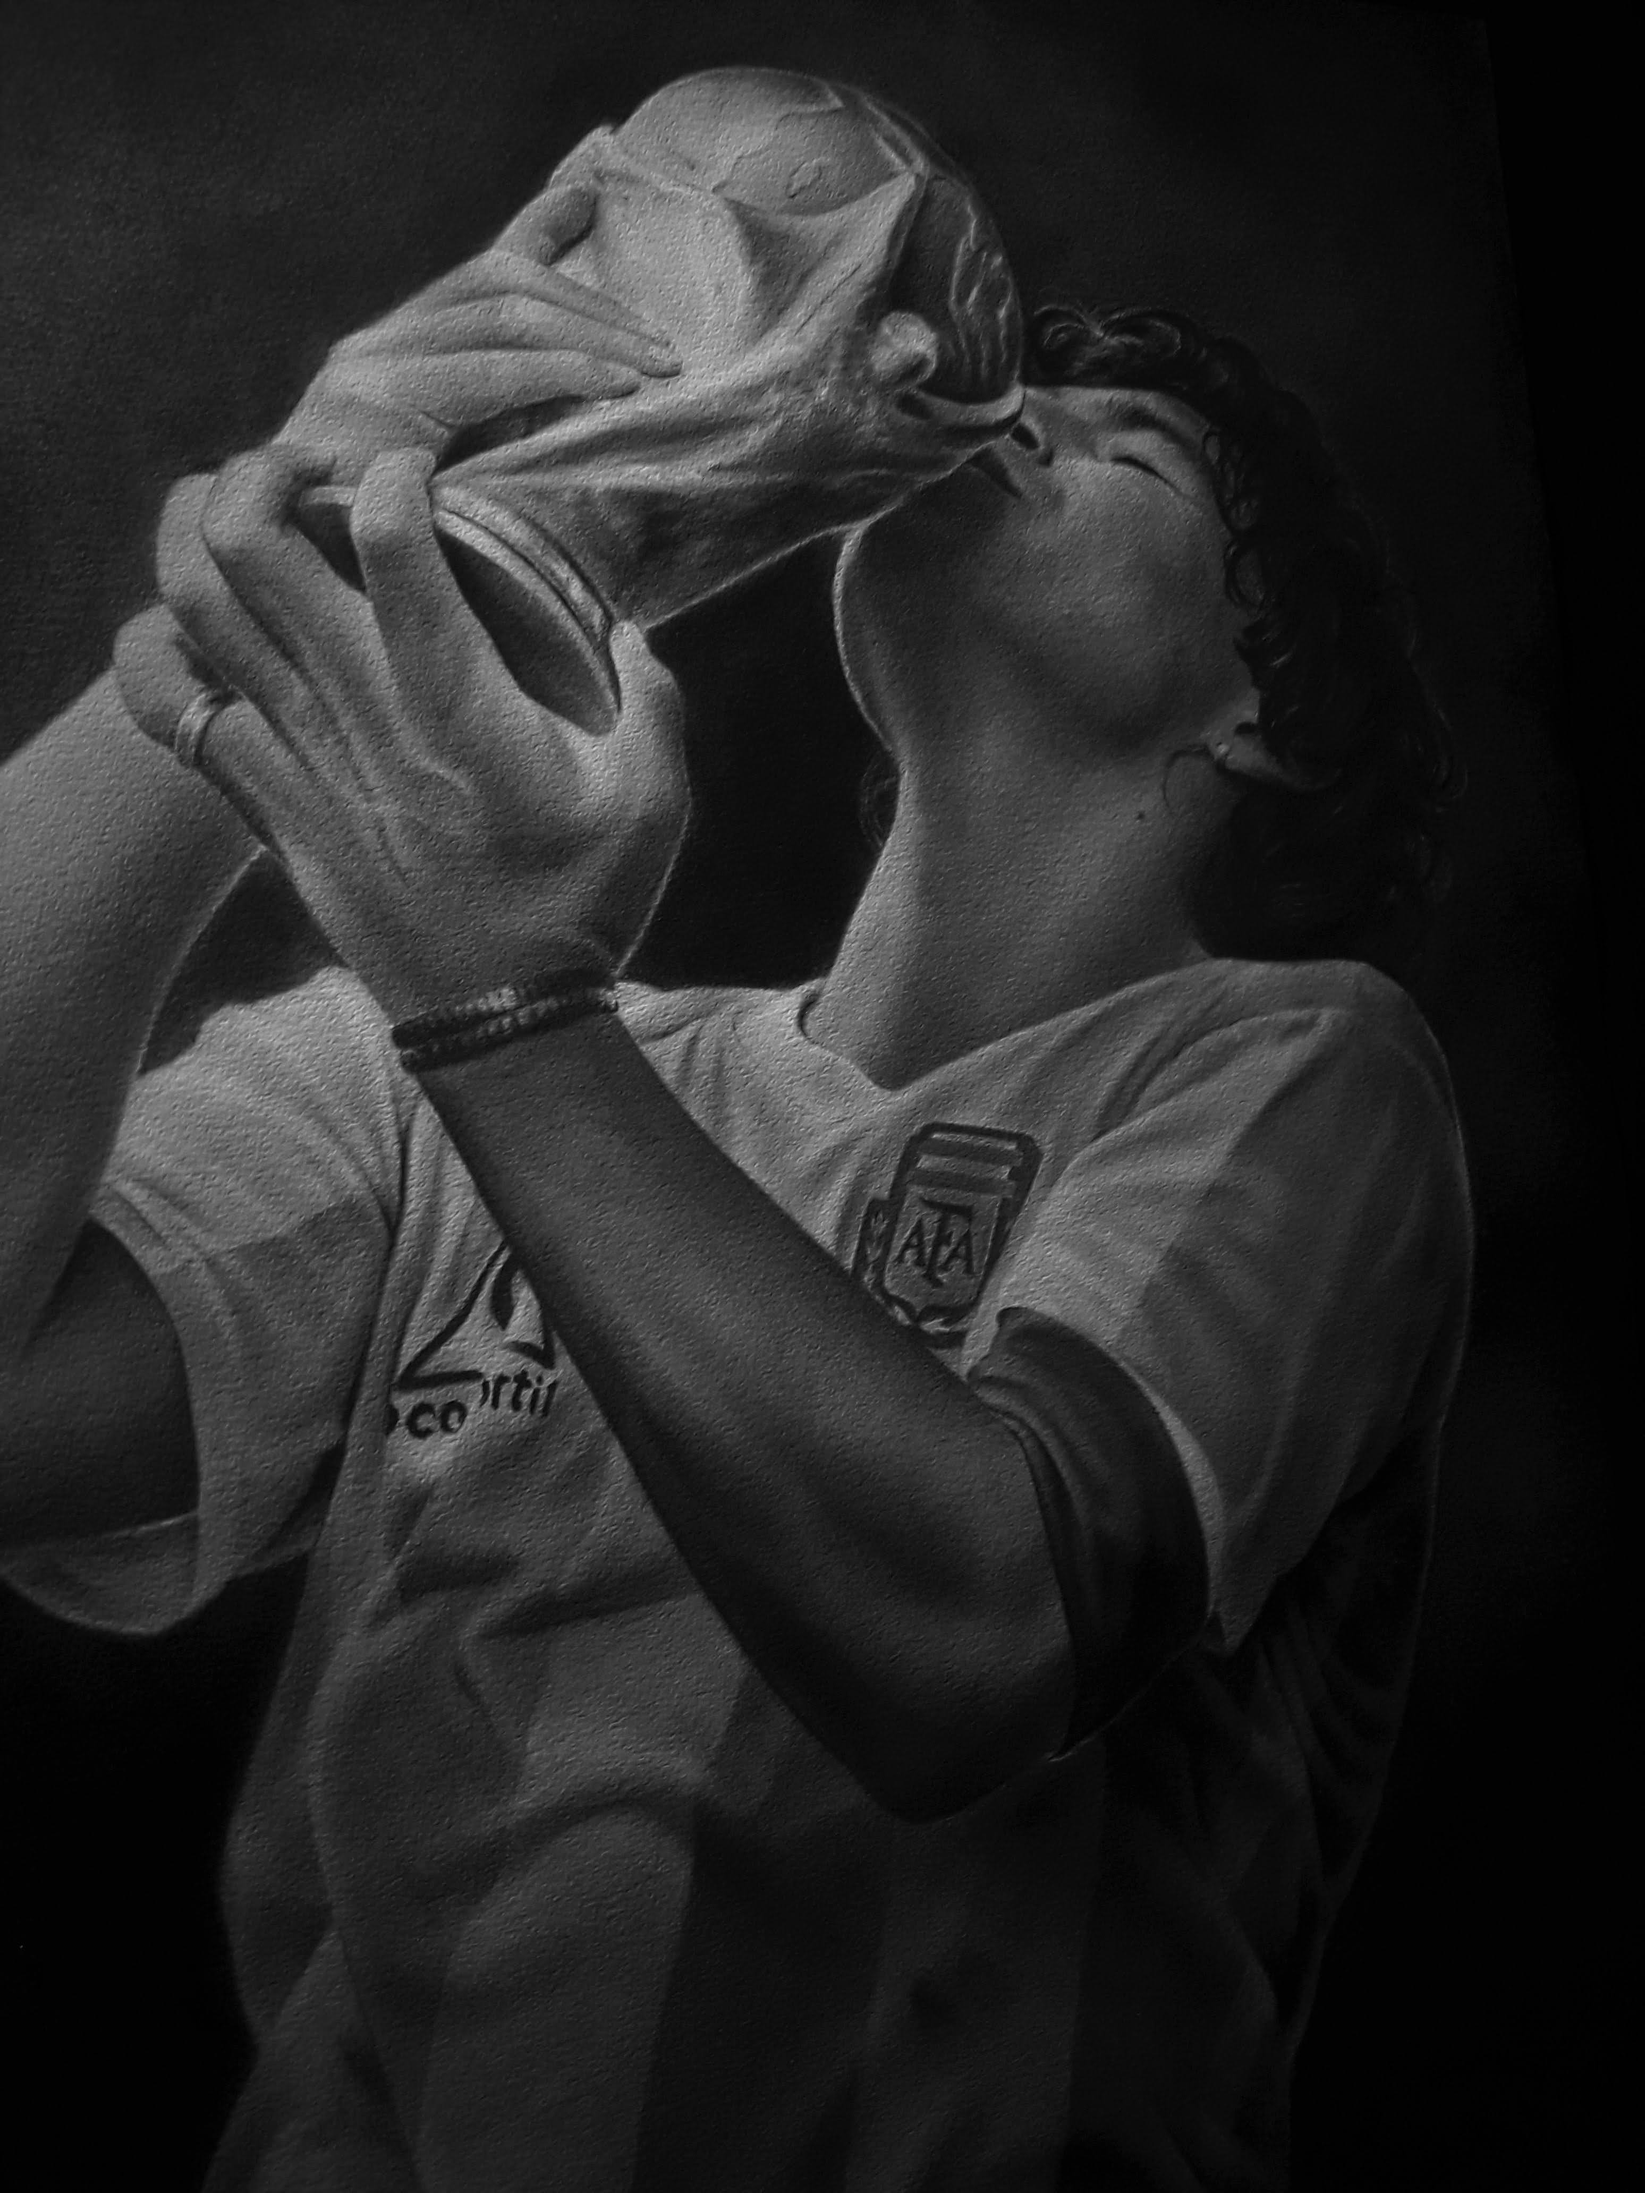
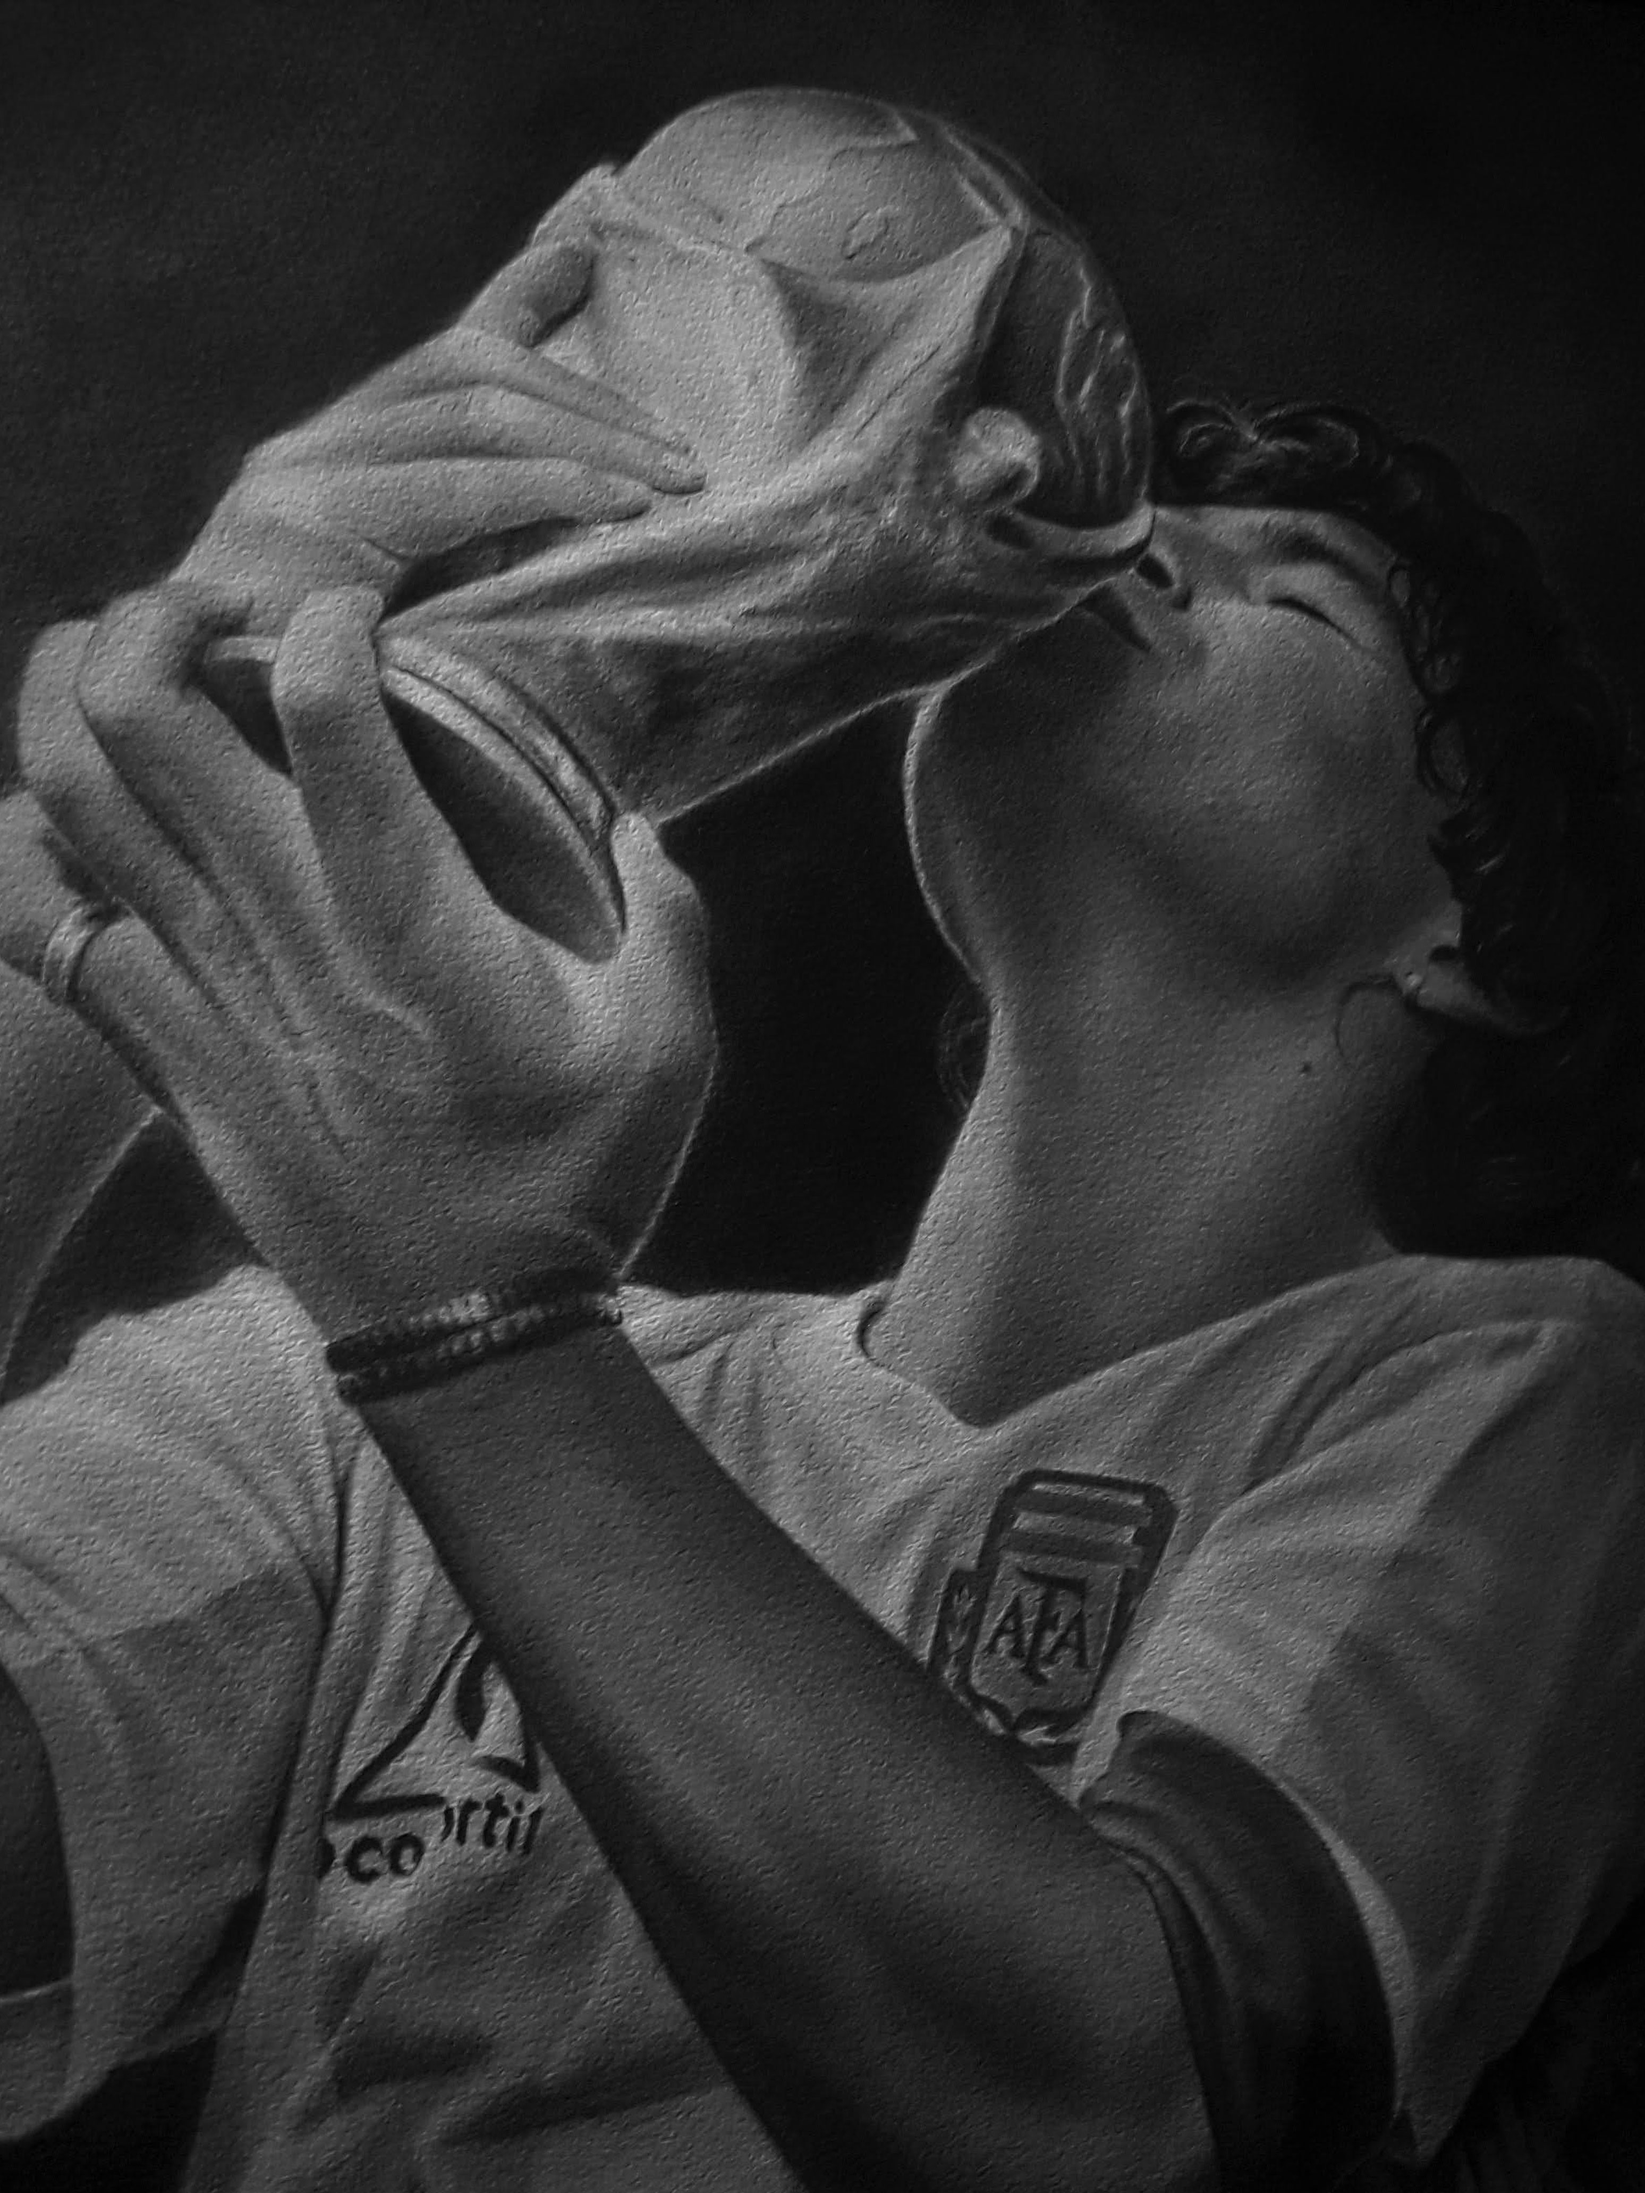
actualizacion8/8/26

diff --git a/works-data.js b/works-data.js
@@ -18,7 +18,7 @@ const WORKS_DATA = [
         title: "Retrato Hiperrealista de Rostro",
         category: "personas",
         categoryLabel: "Personas",
-        image: "assets/images/personas/(3).jpg",
+        image: "assets/images/personas/nro56.jpg",
         technique: "Grafito & Carboncillo sobre papel Canson 300g",
         format: "Formato A3",
         featured: true
@@ -28,7 +28,7 @@ const WORKS_DATA = [
         title: "Retrato de Lionel Messi",
         category: "personas",
         categoryLabel: "Personas",
-        image: "assets/images/personas/(21).jpg",
+        image: "assets/images/hero/nro89.1.jpg",
         technique: "Grafito graduado (2H a 8B)",
         format: "Formato A3",
         featured: true
@@ -38,7 +38,7 @@ const WORKS_DATA = [
         title: "Retrato Individual",
         category: "personas",
         categoryLabel: "Personas",
-        image: "assets/images/personas/102.jpg",
+        image: "assets/images/hero/nro89.jpg",
         technique: "Grafito sobre papel Canson 300g",
         format: "Formato A4",
         featured: true
@@ -48,7 +48,7 @@ const WORKS_DATA = [
         title: "Mirada en Sombra",
         category: "personas",
         categoryLabel: "Personas",
-        image: "assets/images/personas/103.jpg",
+        image: "assets/images/personas/(21).jpg",
         technique: "Estudio de luces y claroscuro en carboncillo",
         format: "Formato A4",
         featured: true
@@ -58,7 +58,7 @@ const WORKS_DATA = [
         title: "Retrato Familiar / Pareja",
         category: "personas",
         categoryLabel: "Personas",
-        image: "assets/images/personas/29.jpg",
+        image: "assets/images/hero/Nro3.1.jpg",
         technique: "Formato A3 en papel libre de ácido",
         format: "Formato A3",
         featured: true
@@ -68,7 +68,7 @@ const WORKS_DATA = [
         title: "Estudio de Expresión N° 107",
         category: "personas",
         categoryLabel: "Personas",
-        image: "assets/images/personas/107.jpg",
+        image: "assets/images/hero/Nro3.jpg",
         technique: "Grafito fino alzada",
         format: "Formato A4",
         featured: false
@@ -78,7 +78,7 @@ const WORKS_DATA = [
         title: "Contraste Profundo N° 70",
         category: "personas",
         categoryLabel: "Personas",
-        image: "assets/images/personas/70.jpg",
+        image: "assets/images/mascotas/64.jpg",
         technique: "Carboncillo y esfumado",
         format: "Formato A3",
         featured: false
@@ -88,7 +88,7 @@ const WORKS_DATA = [
         title: "Retrato en Grafito N° 71",
         category: "personas",
         categoryLabel: "Personas",
-        image: "assets/images/personas/71.jpg",
+        image: "assets/images/hero/diego.jpg",
         technique: "Grafito puro sobre papel de 300g",
         format: "Formato A4",
         featured: false
@@ -98,53 +98,24 @@ const WORKS_DATA = [
         title: "Expresión Realista N° 91",
         category: "personas",
         categoryLabel: "Personas",
-        image: "assets/images/personas/91.jpg",
+        image: "assets/images/personas/nro91.1.jpg",
         technique: "Papel de algodón de textura fina",
         format: "Formato A3",
         featured: false
     },
 
     // --- CATEGORÍA: MASCOTAS ---
-    {
-        id: "mascota-01",
-        title: "Retrato de Mascota en Pelaje",
-        category: "mascotas",
-        categoryLabel: "Mascotas",
-        image: "assets/images/mascotas/(19).png",
-        technique: "Textura de pelaje hiperrealista a grafito",
-        format: "Formato A4",
-        featured: true
-    },
-    {
-        id: "mascota-02",
-        title: "Recuerdo Especial Mascotas",
-        category: "mascotas",
-        categoryLabel: "Mascotas",
-        image: "assets/images/mascotas/58.jpg",
-        technique: "Grafito y toques de blanco titanio",
-        format: "Formato A4",
-        featured: true
-    },
-    {
-        id: "mascota-03",
-        title: "Estudio de Trazo Canino",
-        category: "mascotas",
-        categoryLabel: "Mascotas",
-        image: "assets/images/mascotas/56.jpg",
-        technique: "Carboncillo fino y esfumado",
-        format: "Formato A4",
-        featured: false
-    },
+   
     {
         id: "mascota-04",
         title: "Detalle de Pelaje N° 64",
         category: "mascotas",
         categoryLabel: "Mascotas",
-        image: "assets/images/mascotas/64.jpg",
+        image: "assets/images/personas/70.jpg",
         technique: "Grafito 4B y 6B",
         format: "Formato A4",
         featured: false
-    },
+    }, 
     {
         id: "mascota-05",
         title: "Mirada Animal N° 65",
@@ -155,7 +126,36 @@ const WORKS_DATA = [
         format: "Formato A4",
         featured: false
     },
-
+     {
+        id: "mascota-01",
+        title: "Retrato de Mascota en Pelaje",
+        category: "mascotas",
+        categoryLabel: "Mascotas",
+        image: "assets/images/personas/71.jpg", 
+        technique: "Textura de pelaje hiperrealista a grafito",
+        format: "Formato A4",
+        featured: true
+    },
+    {
+        id: "mascota-02",
+        title: "Recuerdo Especial Mascotas",
+        category: "mascotas",
+        categoryLabel: "Mascotas",
+        image: "assets/images/mascotas/nro10.jpg",
+        technique: "Grafito y toques de blanco titanio",
+        format: "Formato A4",
+        featured: true
+    },
+    {
+        id: "mascota-03",
+        title: "Estudio de Trazo Canino",
+        category: "mascotas",
+        categoryLabel: "Mascotas",
+        image: "assets/images/mascotas/nro6.jpg",
+        technique: "Carboncillo fino y esfumado",
+        format: "Formato A4",
+        featured: false
+    },
     // --- CATEGORÍA: CUADROS Y OBRAS ORIGINALES ---
     {
         id: "cuadro-01",

diff --git a/index.html b/index.html
@@ -74,7 +74,7 @@
                 <!-- Lado Derecho: Obra Protagonista Dominate con Sombra Direccional Realista -->
                 <div class="hero-visual-side">
                     <div class="hero-artwork-frame" id="hero-artwork-frame">
-                        <img src="assets/images/personas/(3).jpg" alt="Retrato a lápiz hiperrealista hecho a mano alzada por Alexis" id="hero-interactive-img" class="hero-interactive-img">
+                        <img src="assets/images/personas/nro56.jpg" alt="Retrato a lápiz hiperrealista hecho a mano alzada por Alexis" id="hero-interactive-img" class="hero-interactive-img">
                     </div>
                 </div>
             </div>
@@ -124,14 +124,14 @@
                     <div class="comparison-card">
                         <div class="comparison-side">
                             <span class="tag-label">Fotografía Original</span>
-                            <img src="assets/images/mascotas/(19).png" alt="Fotografía original de referencia" loading="lazy">
+                            <img src="assets/images/personas/nro45.1.jpg" alt="Fotografía original de referencia" loading="lazy">
                         </div>
                         <div class="comparison-divider">
                             <span class="vs-badge">VS</span>
                         </div>
                         <div class="comparison-side">
                             <span class="tag-label">Retrato Finalizado a Lápiz</span>
-                            <img src="assets/images/personas/(3).jpg" alt="Resultado final dibujado a mano" loading="lazy">
+                            <img src="assets/images/personas/nro56.jpg" alt="Resultado final dibujado a mano" loading="lazy">
                         </div>
                     </div>
                 </div>
@@ -151,7 +151,7 @@
                         <div class="process-photo-highlights">
                             <div class="process-feature">
                                 <div class="process-thumb">
-                                    <img src="assets/images/proceso/portada.jpg" alt="Detalle del papel y el trazo inicial" loading="lazy">
+                                    <img src="assets/images/proceso/nro33.jpg" alt="Detalle del papel y el trazo inicial" loading="lazy">
                                 </div>
                                 <div class="process-desc">
                                     <strong>Papel de Algodón 300g</strong>
@@ -173,7 +173,7 @@
 
                     <div class="materials-visual">
                         <div class="macro-image-wrapper">
-                            <img src="assets/images/proceso/portada.jpg" alt="Detalle macro del trazo a lápiz en proceso" loading="lazy">
+                            <img src="assets/images/proceso/57.jpg" alt="Detalle macro del trazo a lápiz en proceso" loading="lazy">
                             <div class="macro-caption">
                                 <span>Fotografía Macro: Textura del Grafito sobre Papel</span>
                             </div>
